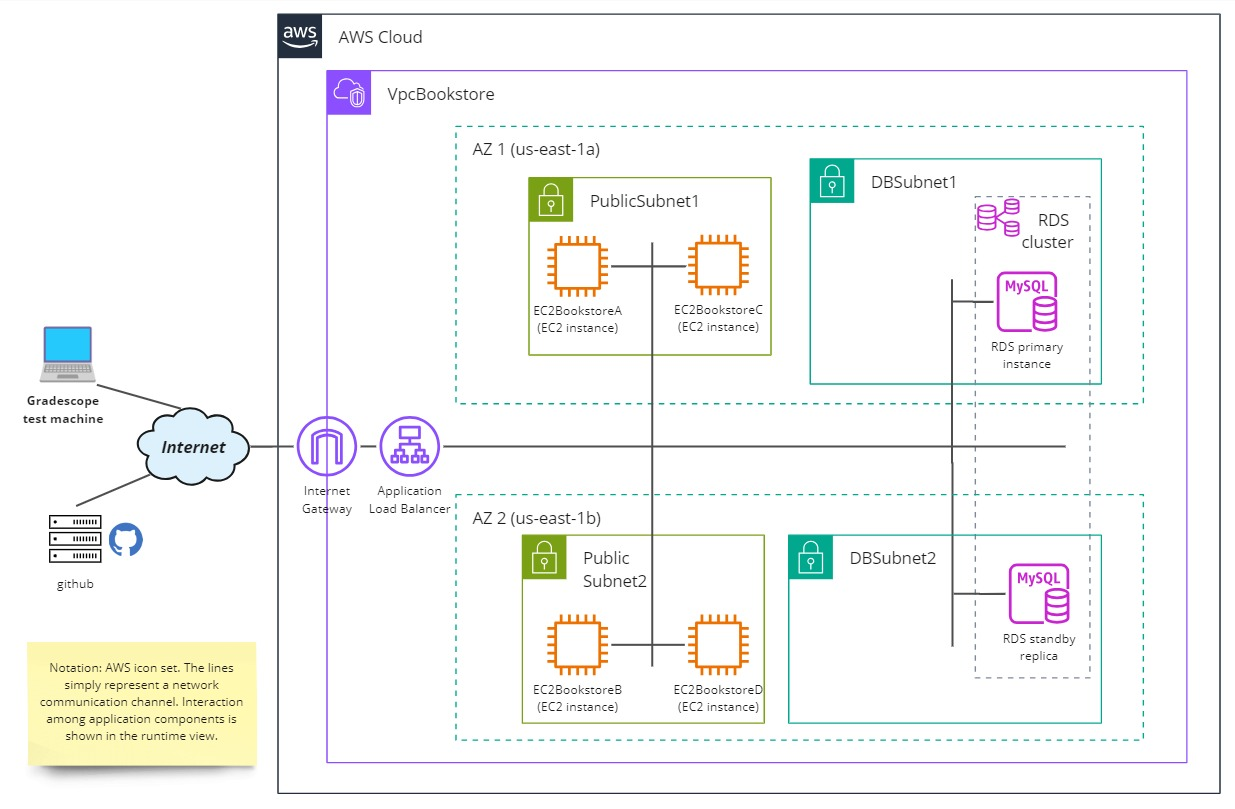
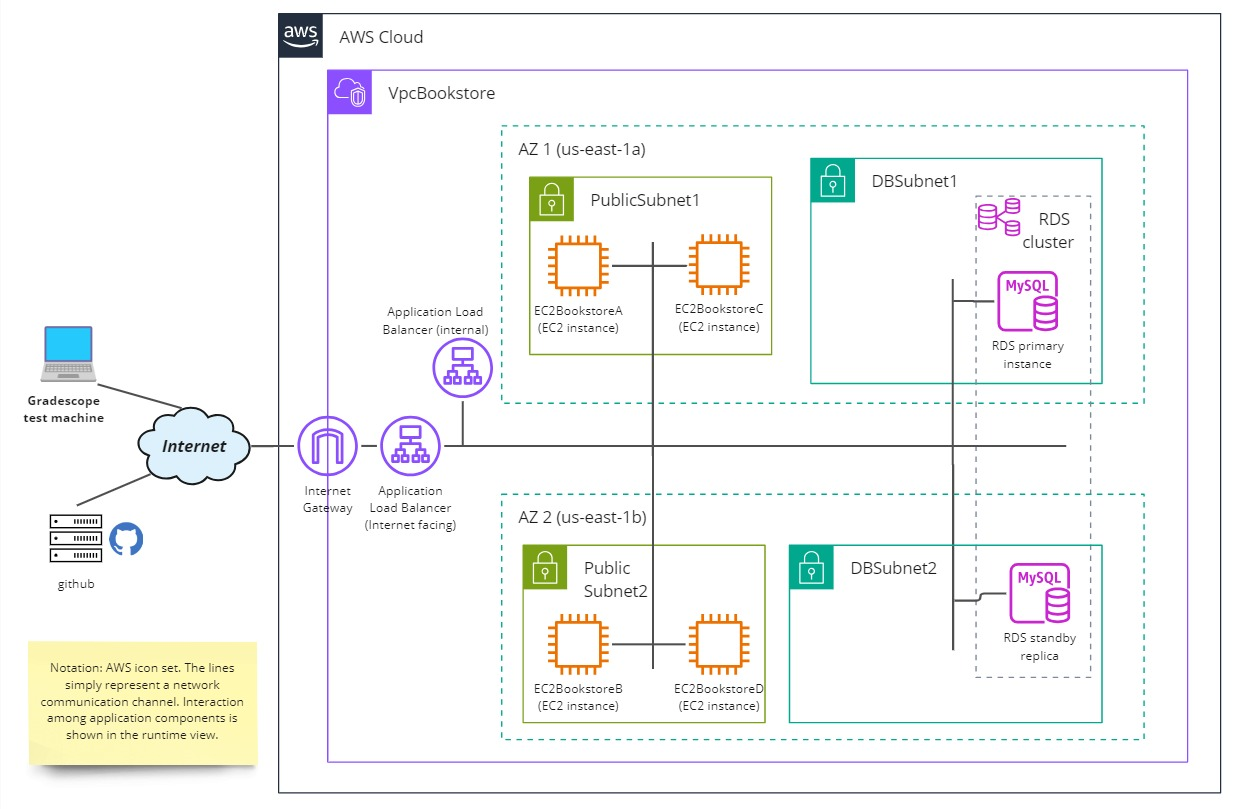
Updated diagrams and desc for A2

diff --git a/README.md b/README.md
@@ -22,7 +22,7 @@ Example of application design that could be deployed to this infrastructure.
 ![notation key](/images/notation-key-runtime-views.jpg)
 
 
-## Multiple EC2 instances, routing based on HTTP header, and RDS cluster
+## Multiple EC2 instances, routing based on HTTP header, BFFs, and RDS cluster
 
 The [CF template](/templates/CF-A2-cmu.yml). (The routing rules might be incomplete, but you can easily fix them.)
 
@@ -35,6 +35,14 @@ Example of application design that could be deployed to this infrastructure.
 
 ![runtime view diagram](/images/a2-runtime-view.jpg)
 
+The mapping of microservices to EC2 instances could be the one in this table. The CF template has target groups corresponding to these subsets of instances.
+
+| Service | EC2 instances it should be deployed to |
+|---------|----------------------------------------|
+| Book store web app BFF (port 80)       | EC2BookstoreA, EC2BookstoreB           |
+| Book store mobile app BFF (port 80)       | EC2BookstoreC, EC2BookstoreD           |
+| Customer service (port 3000)       | EC2BookstoreA, EC2BookstoreD   |
+| Book service (port 3000)       | EC2BookstoreB, EC2BookstoreC       |
 
 
 ## EKS cluster and RDS cluster
